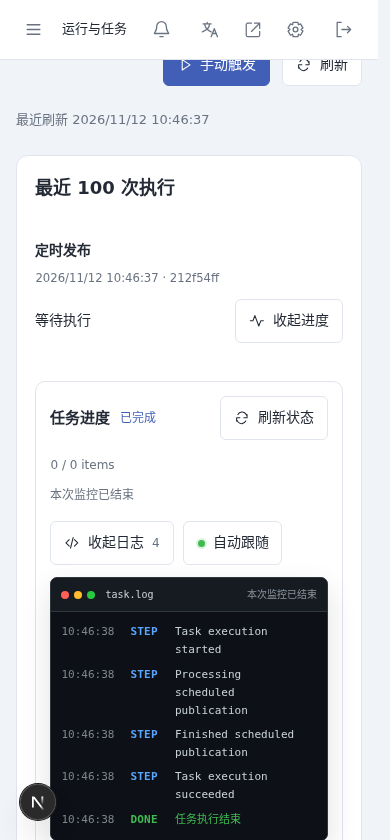
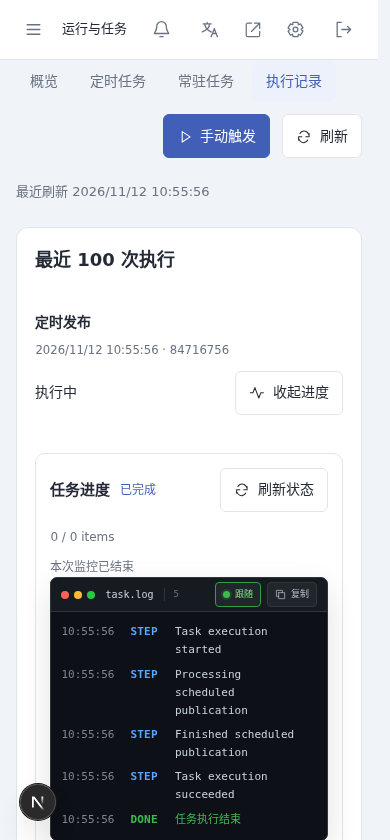
docs: record terminal log toolbar and copy actions

diff --git a/docs/handoff/task-terminal-log-verification.md b/docs/handoff/task-terminal-log-verification.md
@@ -1,6 +1,6 @@
 # 共享伪终端日志验收
 
-版本：task-terminal-log-verification-1。日期：2026-11-12。
+版本：task-terminal-log-verification-2。日期：2026-11-12。
 
 ## 交付范围
 
@@ -9,13 +9,16 @@
 - 日志先按事件sequence升序，再渲染到页面，最新事件固定在底部。
 - 面板默认开启自动跟随；用户离开底部后暂停，回到底部或点击“恢复跟随”后重新滚到底部。
 - 任务终态追加为最后一条日志：成功、失败、取消和结果未知分别显示`DONE/FAIL/STOP/UNKN`；即使没有新增事件，终态变化也会触发自动跟随。
+- 移除终端上方的收起和跟随按钮；自动跟随及复制并入标题栏右侧。复制包含业务日志和终态日志，并提供“已复制/复制失败”反馈。
+- 日志区最大高度360px，内容超出后只在终端内部纵向滚动。
 - 运行记录、手动任务和邮件测试继续复用同一个`TaskProgressPanel`，没有创建第二套日志界面。
 
 ## 检查
 
 - `npm run check`376项通过；新增测试覆盖乱序事件重新排序、日志等级配色映射和任务终态日志。
-- 实际后台打开执行记录：4条业务日志序号严格递增，末尾追加绿色`DONE 任务执行结束`，自动跟随默认`aria-pressed=true`。
+- 实际后台打开执行记录：4条业务日志序号严格递增，末尾追加绿色`DONE 任务执行结束`，标题栏只有跟随和复制两个按钮，自动跟随默认`aria-pressed=true`。
 - 强制将日志区缩至可滚动高度后上滚，自动跟随切换为暂停；点击恢复后重新到达底部。
+- 点击复制得到5行文本，包含序号、时间、`STEP`消息和最终`DONE`日志；按钮短暂显示“已复制”。运行日志区的计算最大高度为360px，`overflow-y=auto`。
 - 1440px和390px实页无横向溢出或`pageerror`；移动端保持等宽终端布局并隐藏序号列以保留消息宽度。
 
 ## 证据

diff --git a/docs/development/task-progress.md b/docs/development/task-progress.md
@@ -1,6 +1,6 @@
 # 统一任务进度与持续监控
 
-版本：task-progress-2；2026-11-12。用于 Worker/后台任务的进度与增量日志；当前实现与检查结果见[伪终端日志验收](../handoff/task-terminal-log-verification.md)。
+版本：task-progress-3；2026-11-12。用于 Worker/后台任务的进度与增量日志；当前实现与检查结果见[伪终端日志验收](../handoff/task-terminal-log-verification.md)。
 
 ## 统一口径
 
@@ -50,6 +50,8 @@ async def refresh(config):
 所有后台日志复用伪终端面板：事件强制按sequence升序渲染，最新日志始终在底部；阶段、请求、响应、warning和error使用不同颜色与短标签，时间与序号使用等宽字体。面板默认开启自动跟随，用户主动滚离底部后暂停，回到底部或点击“恢复跟随”后继续。该组件同时服务运行记录、手动任务和邮件测试，不另写日志外观。
 
 任务终态本身也追加为最后一条终端日志：成功显示绿色`DONE 任务执行结束`，失败显示红色`FAIL`，取消和结果未知显示黄色警告行。终态行使用任务结束时间，即使没有新增业务事件，也会触发自动跟随滚到最底部。
+
+终端上方不保留独立的展开/跟随按钮。自动跟随和复制位于终端标题栏右侧；复制内容包含全部事件的序号、时间、等级、消息和终态行，优先使用Clipboard API并在不可用时回退到文本选择复制。日志区最大高度为360px，内容超出后只在终端内部出现纵向滚动条。
 
 ## 邮件报文
 

diff --git a/docs/handoff/STATUS.md b/docs/handoff/STATUS.md
@@ -3,7 +3,8 @@
 ## 最新同步：共享伪终端日志（2026-11-12）
 
 - 前端统一任务日志组件改为伪终端样式，按事件序号升序并保持最新日志在底部；阶段、请求、响应、警告、错误和任务终态分别着色，默认自动跟随。
-- 运行记录、手动任务与邮件测试继续共用同一组件；真实后台顺序、终态日志、暂停/恢复跟随及桌面/手机布局验证通过，前端完整检查376项通过。
+- 终端上方工具栏已移除，自动跟随与复制并入标题栏；复制包含终态日志，日志区最高360px并在超出时内部滚动。
+- 运行记录、手动任务与邮件测试继续共用同一组件；真实后台顺序、终态日志、复制、暂停/恢复跟随及桌面/手机布局验证通过，前端完整检查376项通过。
 - 本仓库业务代码、事件契约和日志脱敏规则未改变；共享任务进度指南、验收、索引与基准摘要已同步。仅本地文档提交，未push。
 
 ## 最新同步：放弃修改后的客户端导航（2026-11-12）

diff --git a/docs/README.md b/docs/README.md
@@ -1,6 +1,6 @@
 # Everunfold 文档入口
 
-[共享伪终端日志](handoff/task-terminal-log-verification.md)：运行记录、手动任务和邮件测试统一使用深色伪终端；日志按序号升序、最新在底部，按阶段/请求/响应/警告/错误着色，默认自动跟随并允许用户上滚暂停。
+[共享伪终端日志](handoff/task-terminal-log-verification.md)：运行记录、手动任务和邮件测试统一使用深色伪终端；日志按序号升序、最新在底部，按阶段/请求/响应/警告/错误/终态着色。自动跟随与复制位于标题栏，日志区超过360px后在终端内部滚动。
 
 [放弃修改后的客户端导航](handoff/unsaved-leave-client-navigation-verification.md)：未保存确认退场后，同源站内目标使用 Next.js 客户端导航，不再刷新整页；跨域目标保留浏览器文档导航。账号中心与普通后台页面共用该规则。
 
